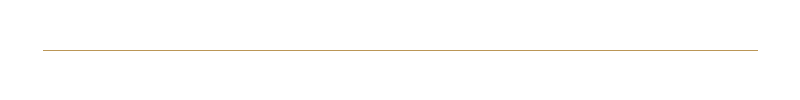
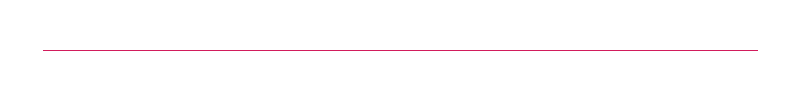
1
1

Changed region(s): [[0.0625, 0.48, 0.9688, 0.51]]

diff --git a/travel/miami/index.html b/travel/miami/index.html
@@ -14,50 +14,30 @@
 </head>
 
 <body>
-    <!-- Fixed navbar -->
-    <nav class="navbar navbar-inverse navbar-fixed-top container">
-        <div class="container">
-            <div class="navbar-header">
-                <button type="button" class="navbar-toggle collapsed" data-toggle="collapse" data-target="#navbar" aria-expanded="false" aria-controls="navbar">
-                    <span class="sr-only">Toggle navigation</span>
-                    <span class="icon-bar"></span>
-                    <span class="icon-bar"></span>
-                    <span class="icon-bar"></span>
-                </button>
-                <a class="navbar-brand" href="#">Project name</a>
+    <div class="fixed-header-menu">
+        <div class="container container-fixed-menu">
+            <div class="row header-menu-row">
+                <div class="col-xs-3"><a class="header-menu-link" href="#about">[ABOUT]</a></div>
+                <div class="col-xs-3"><a class="header-menu-link" href="#places">[PLACES]</a></div>
+                <div class="col-xs-3"><a class="header-menu-link" href="#rooftopbars">[NIGHTLIFE]</a></div>
+                <div class="col-xs-3"><a class="header-menu-link" href="#events">[EVENTS]</a></div>
             </div>
-            <div id="navbar" class="navbar-collapse collapse">
-                <ul class="nav navbar-nav">
-                    <li class="active"><a href="#">Home</a></li>
-                    <li><a href="#about">About</a></li>
-                    <li><a href="#contact">Contact</a></li>
-                    <li class="dropdown">
-                        <a href="#" class="dropdown-toggle" data-toggle="dropdown" role="button" aria-haspopup="true" aria-expanded="false">Dropdown <span class="caret"></span></a>
-                        <ul class="dropdown-menu">
-                            <li><a href="#">Action</a></li>
-                            <li><a href="#">Another action</a></li>
-                            <li><a href="#">Something else here</a></li>
-                            <li role="separator" class="divider"></li>
-                            <li class="dropdown-header">Nav header</li>
-                            <li><a href="#">Separated link</a></li>
-                            <li><a href="#">One more separated link</a></li>
-                        </ul>
-                    </li>
-                </ul>
-                <ul class="nav navbar-nav navbar-right">
-                    <li><a href="../navbar/">Default</a></li>
-                    <li><a href="../navbar-static-top/">Static top</a></li>
-                </ul>
-            </div>
-            <!--/.nav-collapse -->
         </div>
-    </nav>
+    </div>
     <div class="container container-custom">
         <div id="header">
-            <!-- Carousel
-    ================================================== -->
-            <div id="myCarousel" class="carousel slide" data-ride="carousel">
-                <!-- Indicators -->
+            <div class="header-menu">
+                <img width="250px" src="img/logo.png" />
+                <img class="img-responsive" style="margin: 0 auto;" src="img/divider.png" />
+                <div class="row header-menu-row">
+                    <div class="col-xs-3"><a class="header-menu-link" href="#about">[ABOUT]</a></div>
+                    <div class="col-xs-3"><a class="header-menu-link" href="#places">[PLACES]</a></div>
+                    <div class="col-xs-3"><a class="header-menu-link" href="#rooftopbars">[NIGHTLIFE]</a></div>
+                    <div class="col-xs-3"><a class="header-menu-link" href="#events">[EVENTS]</a></div>
+                </div>
+            </div>
+            <div class="header-shadow"></div>
+            <div id="myCarousel" class="carousel slide" data-ride="carousel" style="z-index: 99;position: relative;margin-top: -200px">
                 <ol class="carousel-indicators">
                     <li data-target="#myCarousel" data-slide-to="0" class="active"></li>
                     <li data-target="#myCarousel" data-slide-to="1"></li>
@@ -83,7 +63,6 @@
                     <span class="sr-only">Next</span>
                 </a>
             </div>
-            <!-- /.carousel -->
         </div>
         <div id="about">
             <h1>ABOUT MIAMI</h1>
@@ -91,7 +70,7 @@
             <div class="row">
                 <div class="col-md-2"></div>
                 <div class="col-md-8">
-                    <div class="row" style="color: #BB9656">
+                    <div class="row" style="color: #D21C5C">
                         <div class="col-xs-4"><i class="fa fa-arrows-alt fa-4x" aria-hidden="true"></i>
                             <h3>143 KM2</h3>
                             <h4>AREA</h4></div>
@@ -170,7 +149,7 @@
                 <div class="col-xs-1"></div>
             </div>
         </div>
-        <div id="rooptopbars">
+        <div id="rooftopbars">
             <div class="rooftopbars-head">
                 <div class="rooftopbars-bg">
                     <div class="rooftopbars-bg-content">
@@ -246,6 +225,7 @@
     </div>
     <script src="https://ajax.googleapis.com/ajax/libs/jquery/1.11.3/jquery.min.js"></script>
     <script src="js/bootstrap.min.js"></script>
+    <script src="js/mainxs.js"></script>
 </body>
 
 </html>

diff --git a/travel/miami/css/style.css b/travel/miami/css/style.css
@@ -10,12 +10,13 @@ body {
     letter-spacing: 1px;
 }
 
-    .container-custom {
-        background: #111111;
-        -moz-box-sizing: border-box;
-        -webkit-box-sizing: border-box;
-        box-sizing: border-box;
-    }
+.container-custom {
+    background: #111111;
+    padding: 0;
+    -moz-box-sizing: border-box;
+    -webkit-box-sizing: border-box;
+    box-sizing: border-box;
+}
 
 .container-menu {
     width: 80%;
@@ -23,9 +24,87 @@ body {
 
 h1 {
     letter-spacing: 20px;
-    color: #BB9656;
+    color: #D21C5C;
     font-weight: 400;
     font-family: 'Josefin Sans', sans-serif;
+}
+
+
+/* -- HEADER -- */
+
+#header {}
+
+#header .header-menu {
+    text-align: center;
+    padding: 60px 0;
+    padding-bottom: 50px;
+    background: #111111;
+    position: relative;
+    z-index: 100;
+}
+
+#header .header-menu-row {
+    margin-top: 30px;
+    text-align: center;
+    letter-spacing: 2px;
+}
+
+#header .header-menu-row a {
+    color: white;
+    font-size: 140%;
+    text-decoration: none;
+    transition: color 0.4s ease;
+    -webkit-transition: color 0.4s ease;
+    -moz-transition: color 0.4s ease;
+}
+
+#header .header-menu-row a:hover {
+    color: #D21C5C;
+}
+
+#header .header-shadow {
+    height: 200px;
+    background: -moz-linear-gradient(top, rgba(17, 17, 17, 1) 0%, rgba(0, 0, 0, 0) 100%);
+    background: -webkit-linear-gradient(top, rgba(17, 17, 17, 1) 0%, rgba(0, 0, 0, 0) 100%);
+    background: linear-gradient(to bottom, rgba(17, 17, 17, 1) 0%, rgba(0, 0, 0, 0) 100%);
+    filter: progid: DXImageTransform.Microsoft.gradient( startColorstr='#111111', endColorstr='#00000000', GradientType=0);
+    position: relative;
+    z-index: 100;
+}
+
+.fixed-header-menu {
+    height: 80px;
+    margin: 0 auto;
+    position: fixed;
+    z-index: 10;
+    top: 0;
+    text-align: center;
+    width: 100%;
+    line-height: 80px;
+}
+
+.container-fixed-menu {
+    background: rgba(0, 0, 0, 0.7);
+    transition: background 0.4s ease;
+    -webkit-transition: background 0.4s ease;
+    -moz-transition: background 0.4s ease;
+}
+
+.container-fixed-menu:hover {
+    background: rgba(0, 0, 0, 0.9);
+}
+
+.fixed-header-menu a {
+    color: white;
+    font-size: 140%;
+    text-decoration: none;
+    transition: color 0.4s ease;
+    -webkit-transition: color 0.4s ease;
+    -moz-transition: color 0.4s ease;
+}
+
+.fixed-header-menu a:hover {
+    color: #D21C5C;
 }
 
 
@@ -60,7 +139,7 @@ h1 {
 #places .places-header-img {
     background: #111111;
     padding: 5px;
-    border: 1px solid #BB9656;
+    border: 1px solid #D21C5C;
 }
 
 #places .featurette-heading {
@@ -72,25 +151,25 @@ h1 {
 
 /* -- ROOFTOPBARS -- */
 
-#rooptopbars .rooftopbars-head {
+#rooftopbars .rooftopbars-head {
     text-align: center;
     background: #111111 url('../img/rooftopbars.jpg') center center no-repeat;
     background-size: cover;
     padding: 150px 10px;
 }
 
-#rooptopbars .rooftopbars-bg {
+#rooftopbars .rooftopbars-bg {
     display: inline-block;
     background: rgba(0, 0, 0, 0.8);
     padding: 10px;
 }
 
-#rooptopbars .rooftopbars-bg-content {
-    border: 1px solid #BB9656;
+#rooftopbars .rooftopbars-bg-content {
+    border: 1px solid #D21C5C;
     padding: 40px;
 }
 
-#rooptopbars .rooftopbars-content {
+#rooftopbars .rooftopbars-content {
     text-align: center;
     padding: 50px 15px;
 }
@@ -106,13 +185,13 @@ h1 {
 #events .events-img {
     background: #111111;
     padding: 15px;
-    border: 1px solid #BB9656;
+    border: 1px solid #D21C5C;
     margin-bottom: 20px;
 }
 
 #events h2 {
     text-transform: uppercase;
-    color: #BB9656;
+    color: #D21C5C;
 }
 
 #events p {
@@ -136,13 +215,18 @@ h1 {
 
 #numbers .numbers-right {
     text-align: left;
-    color: #BB9656;
+    color: #D21C5C;
 }
 
 
 /* -- RESPONSIVE CSS -- */
 
-@media (min-width: 768px) {}
+@media (min-width: 768px) {
+	container {
+		background: red;
+	}
+
+}
 
 @media (min-width: 640px) {
     .container-custom {

diff --git a/travel/miami/js/main.js b/travel/miami/js/main.js
@@ -1,0 +1,20 @@
+
+ 
+// -----------------------------
+// Smooth Scroll
+// -----------------------------
+
+$(function() {
+    $('a[href*="#"]:not([href="#"])').click(function() {
+        if (location.pathname.replace(/^\//, '') == this.pathname.replace(/^\//, '') && location.hostname == this.hostname) {
+            var target = $(this.hash);
+            target = target.length ? target : $('[name=' + this.hash.slice(1) + ']');
+            if (target.length) {
+                $('html, body').animate({
+                    scrollTop: target.offset().top
+                }, 1000);
+                return false;
+            }
+        }
+    });
+});
